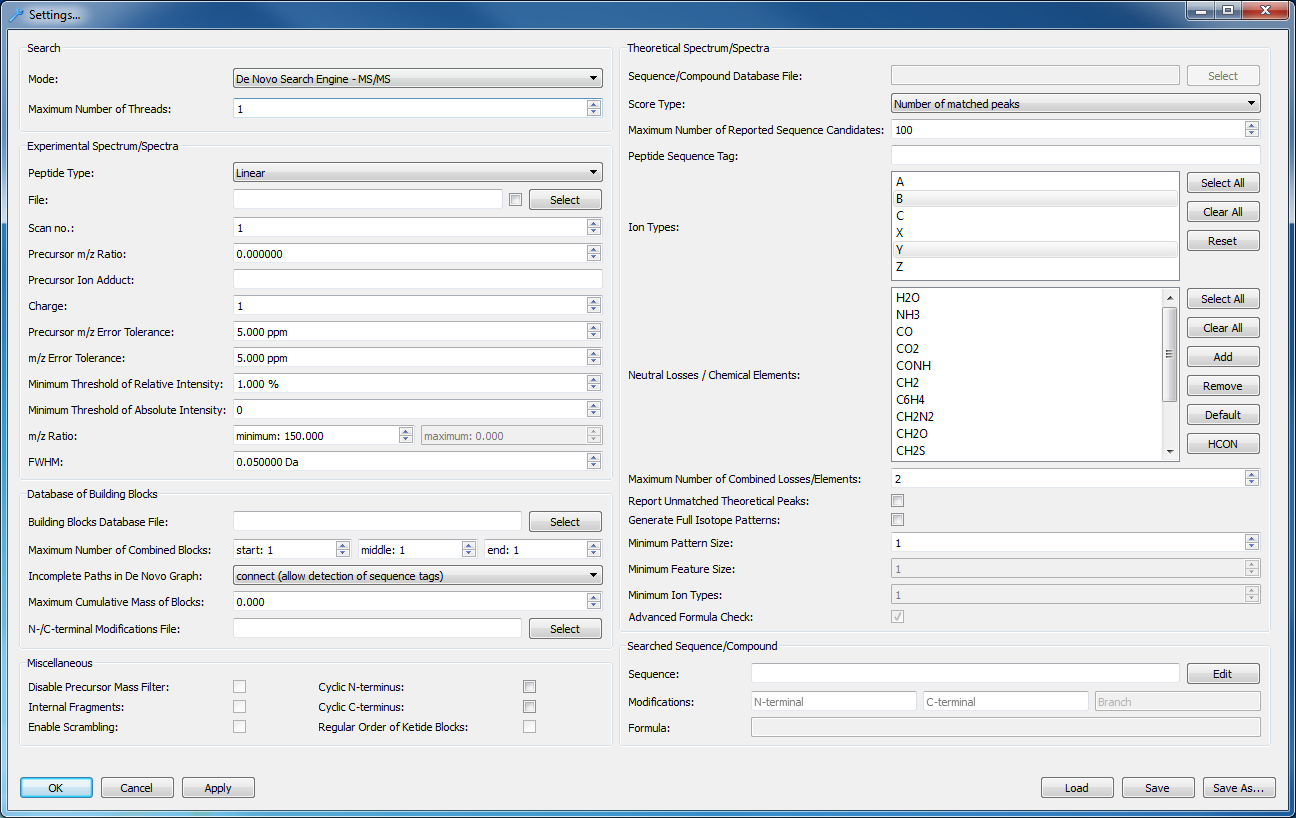
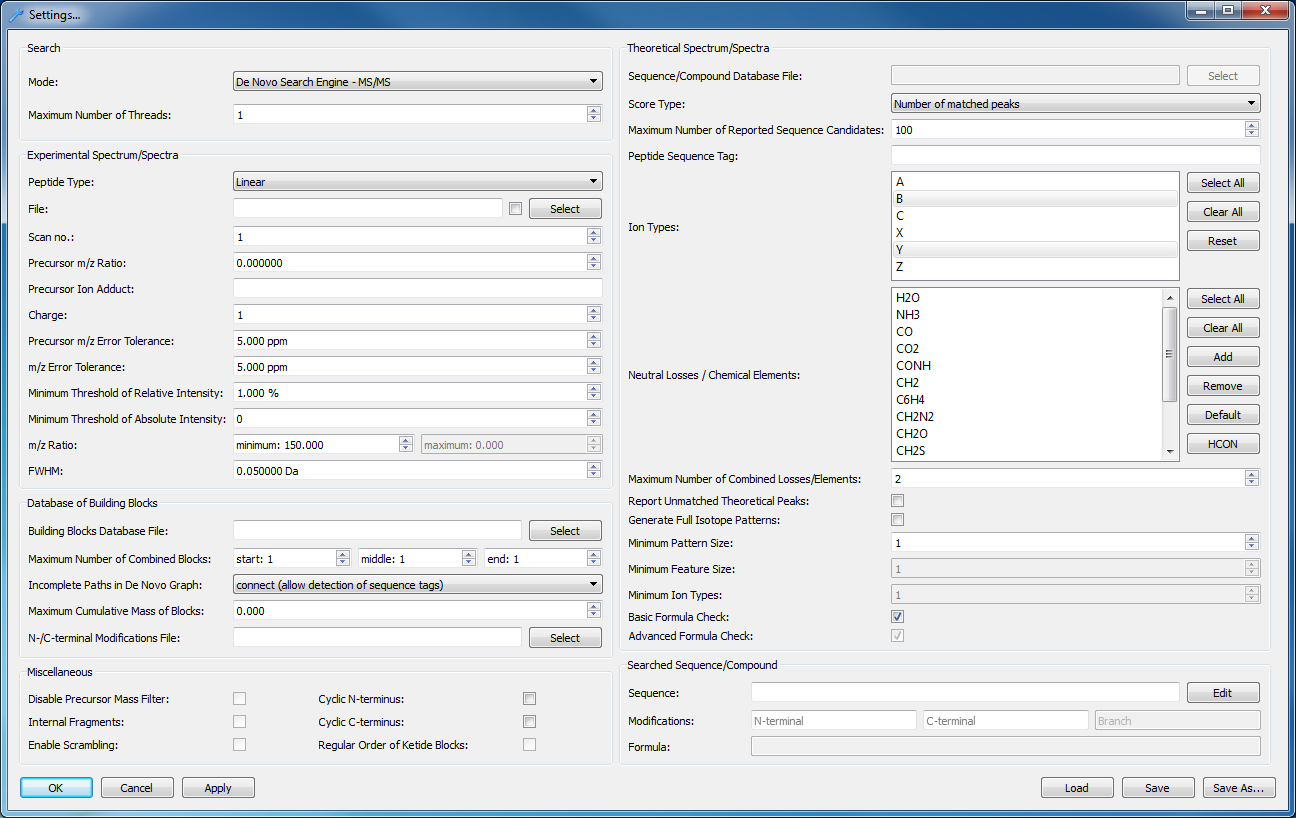
basicformulacheck checkbox added

Changed region(s): [[0.0, 0.0917, 0.9877, 0.9474]]

diff --git a/CycloBranch/gui/cParametersWidget.cpp b/CycloBranch/gui/cParametersWidget.cpp
@@ -509,12 +509,19 @@ cParametersWidget::cParametersWidget(QWidget* parent) {
 	theoreticalspectragridlayout->addWidget(minimumiontypeslabel, 11, 0);
 	theoreticalspectragridlayout->addWidget(minimumiontypes, 11, 1);
 
+	basicformulacheck = new QCheckBox();
+	basicformulacheck->setToolTip("Apply Senior's filtering rules.");
+	basicformulacheck->setFixedWidth(rightdefaultwidth);
+	basicformulachecklabel = new QLabel("Basic Formula Check:");
+	theoreticalspectragridlayout->addWidget(basicformulachecklabel, 12, 0);
+	theoreticalspectragridlayout->addWidget(basicformulacheck, 12, 1);
+
 	advancedformulacheck = new QCheckBox();
 	advancedformulacheck->setToolTip("Apply advanced filtering rules if molecular formulas of compounds are generated.");
 	advancedformulacheck->setFixedWidth(rightdefaultwidth);
 	advancedformulachecklabel = new QLabel("Advanced Formula Check:");
-	theoreticalspectragridlayout->addWidget(advancedformulachecklabel, 12, 0);
-	theoreticalspectragridlayout->addWidget(advancedformulacheck, 12, 1);
+	theoreticalspectragridlayout->addWidget(advancedformulachecklabel, 13, 0);
+	theoreticalspectragridlayout->addWidget(advancedformulacheck, 13, 1);
 
 	theoreticalspectragroupbox = new QGroupBox("Theoretical Spectrum/Spectra");
 	theoreticalspectragroupbox->setLayout(theoreticalspectragridlayout);
@@ -763,6 +770,8 @@ cParametersWidget::~cParametersWidget() {
 	delete minimumfeaturesize;
 	delete minimumiontypeslabel;
 	delete minimumiontypes;
+	delete basicformulachecklabel;
+	delete basicformulacheck;
 	delete advancedformulachecklabel;
 	delete advancedformulacheck;
 	delete theoreticalspectragridlayout;
@@ -955,6 +964,7 @@ void cParametersWidget::loadSettings() {
 		minimumpatternsize->setValue(settings.value("minimumpatternsize", 1).toInt());
 		minimumfeaturesize->setValue(settings.value("minimumfeaturesize", 1).toInt());
 		minimumiontypes->setValue(settings.value("minimumiontypes", 1).toInt());
+		settings.value("basicformulacheck", 1).toInt() == 0 ? basicformulacheck->setChecked(false) : basicformulacheck->setChecked(true);
 		settings.value("advancedformulacheck", 1).toInt() == 0 ? advancedformulacheck->setChecked(false) : advancedformulacheck->setChecked(true);
 
 		searchedsequenceline->setText(settings.value("searchedsequence", "").toString());
@@ -1037,6 +1047,7 @@ void cParametersWidget::saveSettings() {
 	settings.setValue("minimumpatternsize", minimumpatternsize->value());
 	settings.setValue("minimumfeaturesize", minimumfeaturesize->value());
 	settings.setValue("minimumiontypes", minimumiontypes->value());
+	basicformulacheck->isChecked() ? settings.setValue("basicformulacheck", 1) : settings.setValue("basicformulacheck", 0);
 	advancedformulacheck->isChecked() ? settings.setValue("advancedformulacheck", 1) : settings.setValue("advancedformulacheck", 0);
 
 	settings.setValue("searchedsequence", searchedsequenceline->text());
@@ -1305,6 +1316,7 @@ bool cParametersWidget::updateParameters() {
 	parameters.minimumpatternsize = minimumpatternsize->value();
 	parameters.minimumfeaturesize = minimumfeaturesize->value();
 	parameters.minimumiontypes = minimumiontypes->value();
+	parameters.basicformulacheck = basicformulacheck->isChecked();
 	parameters.advancedformulacheck = advancedformulacheck->isChecked();
 
 	parameters.searchedsequence = searchedsequenceline->text().toStdString();
@@ -1415,6 +1427,7 @@ void cParametersWidget::restoreParameters() {
 	minimumpatternsize->setValue(parameters.minimumpatternsize);
 	minimumfeaturesize->setValue(parameters.minimumfeaturesize);
 	minimumiontypes->setValue(parameters.minimumiontypes);
+	basicformulacheck->setChecked(parameters.basicformulacheck);
 	advancedformulacheck->setChecked(parameters.advancedformulacheck);
 
 	searchedsequenceline->setText(parameters.searchedsequence.c_str());
@@ -1654,6 +1667,7 @@ void cParametersWidget::updateSettingsWhenModeChanged(int index) {
 			neutrallosstypes->setDisabled(false);
 			maximumcombinedlosses->setDisabled(false);
 			//clearhitswithoutparent->setDisabled(false);
+			basicformulacheck->setDisabled(false);
 			advancedformulacheck->setDisabled(true);
 			reportunmatchedtheoreticalpeaks->setDisabled(false);
 			generateisotopepattern->setDisabled(false);
@@ -1694,6 +1708,7 @@ void cParametersWidget::updateSettingsWhenModeChanged(int index) {
 			neutrallosstypes->setDisabled(false);
 			maximumcombinedlosses->setDisabled(false);
 			//clearhitswithoutparent->setDisabled(false);
+			basicformulacheck->setDisabled(false);
 			advancedformulacheck->setDisabled(true);
 			reportunmatchedtheoreticalpeaks->setDisabled(false);
 			generateisotopepattern->setDisabled(false);
@@ -1734,6 +1749,7 @@ void cParametersWidget::updateSettingsWhenModeChanged(int index) {
 			neutrallosstypes->setDisabled(false);
 			maximumcombinedlosses->setDisabled(false);
 			//clearhitswithoutparent->setDisabled(false);
+			basicformulacheck->setDisabled(false);
 			advancedformulacheck->setDisabled(true);
 			reportunmatchedtheoreticalpeaks->setDisabled(false);
 			generateisotopepattern->setDisabled(false);
@@ -1774,6 +1790,7 @@ void cParametersWidget::updateSettingsWhenModeChanged(int index) {
 			neutrallosstypes->setDisabled(false);
 			maximumcombinedlosses->setDisabled(false);
 			//clearhitswithoutparent->setDisabled(true);
+			basicformulacheck->setDisabled(false);
 			advancedformulacheck->setDisabled(true);
 			reportunmatchedtheoreticalpeaks->setDisabled(false);
 			generateisotopepattern->setDisabled(false);
@@ -1832,6 +1849,7 @@ void cParametersWidget::updateSettingsWhenModeChanged(int index) {
 			neutrallosstypes->setDisabled(false);
 			maximumcombinedlosses->setDisabled(false);
 			//clearhitswithoutparent->setDisabled(true);
+			basicformulacheck->setDisabled(false);
 			advancedformulacheck->setDisabled(false);
 			reportunmatchedtheoreticalpeaks->setDisabled(false);
 			generateisotopepattern->setDisabled(false);

diff --git a/CycloBranch/core/cParameters.cpp b/CycloBranch/core/cParameters.cpp
@@ -119,6 +119,7 @@ void cParameters::clear() {
 	scoretype = number_of_matched_peaks;
 	maximumcombinedlosses = 2;
 	//clearhitswithoutparent = false;
+	basicformulacheck = true;
 	advancedformulacheck = true;
 	reportunmatchedtheoreticalpeaks = false;
 	generateisotopepattern = false;
@@ -1194,6 +1195,10 @@ string cParameters::printToString() {
 
 	s += "Minimum Ion Types: " + to_string(minimumiontypes) + "\n";
 
+	s += "Basic Formula Check: ";
+	s += basicformulacheck ? "on" : "off";
+	s += "\n";
+
 	s += "Advanced Formula Check: ";
 	s += advancedformulacheck ? "on" : "off";
 	s += "\n";
@@ -1360,7 +1365,7 @@ int cParameters::calculateNeutralLosses(bool& terminatecomputation, string& erro
 		}
 	}
 
-	if ((neutrallossesbrickdatabase.size() > 0) && (neutrallossesbrickdatabase.size() == valences.size())) {
+	if (basicformulacheck && (neutrallossesbrickdatabase.size() > 0) && (neutrallossesbrickdatabase.size() == valences.size())) {
 		validvalences = true;
 
 		if (os) {
@@ -1803,7 +1808,7 @@ int cParameters::generateCompounds(bool& terminatecomputation, string& errormess
 		}
 	}
 
-	if ((elementsbrickdatabase.size() > 0) && (elementsbrickdatabase.size() == valences.size())) {
+	if (basicformulacheck && (elementsbrickdatabase.size() > 0) && (elementsbrickdatabase.size() == valences.size())) {
 		validvalences = true;
 	}
 
@@ -2377,6 +2382,7 @@ void cParameters::store(ofstream& os) {
 	os.write((char *)&minimumpatternsize, sizeof(int));
 	os.write((char *)&minimumfeaturesize, sizeof(int));
 	os.write((char *)&minimumiontypes, sizeof(int));
+	os.write((char *)&basicformulacheck, sizeof(bool));
 	os.write((char *)&advancedformulacheck, sizeof(bool));
 	os.write((char *)&cyclicnterminus, sizeof(bool));
 	os.write((char *)&cycliccterminus, sizeof(bool));
@@ -2510,6 +2516,7 @@ void cParameters::load(ifstream& is) {
 	is.read((char *)&minimumpatternsize, sizeof(int));
 	is.read((char *)&minimumfeaturesize, sizeof(int));
 	is.read((char *)&minimumiontypes, sizeof(int));
+	is.read((char *)&basicformulacheck, sizeof(bool));
 	is.read((char *)&advancedformulacheck, sizeof(bool));
 	is.read((char *)&cyclicnterminus, sizeof(bool));
 	is.read((char *)&cycliccterminus, sizeof(bool));

diff --git a/CycloBranch/gui/cParametersWidget.h b/CycloBranch/gui/cParametersWidget.h
@@ -238,6 +238,8 @@ private:
 	QSpinBox* minimumfeaturesize;
 	QLabel* minimumiontypeslabel;
 	QSpinBox* minimumiontypes;
+	QLabel* basicformulachecklabel;
+	QCheckBox* basicformulacheck;
 	QLabel* advancedformulachecklabel;
 	QCheckBox* advancedformulacheck;
 

diff --git a/CycloBranch/core/cParameters.h b/CycloBranch/core/cParameters.h
@@ -297,6 +297,12 @@ public:
 
 
 	/**
+		\brief Apply Senior's filtering rules.
+	*/
+	bool basicformulacheck;
+
+
+	/**
 		\brief Advanced filtering rules are aplied if compounds are generated in MS mode.
 	*/
 	bool advancedformulacheck;

diff --git a/CycloBranch/core/utilities.cpp b/CycloBranch/core/utilities.cpp
@@ -4,7 +4,7 @@
 
 
 QString appname = "CycloBranch";
-QString appversion = "v. 1.3.39 (64-bit)";
+QString appversion = "v. 1.3.40 (64-bit)";
 
 
 #if OS_TYPE == UNX
